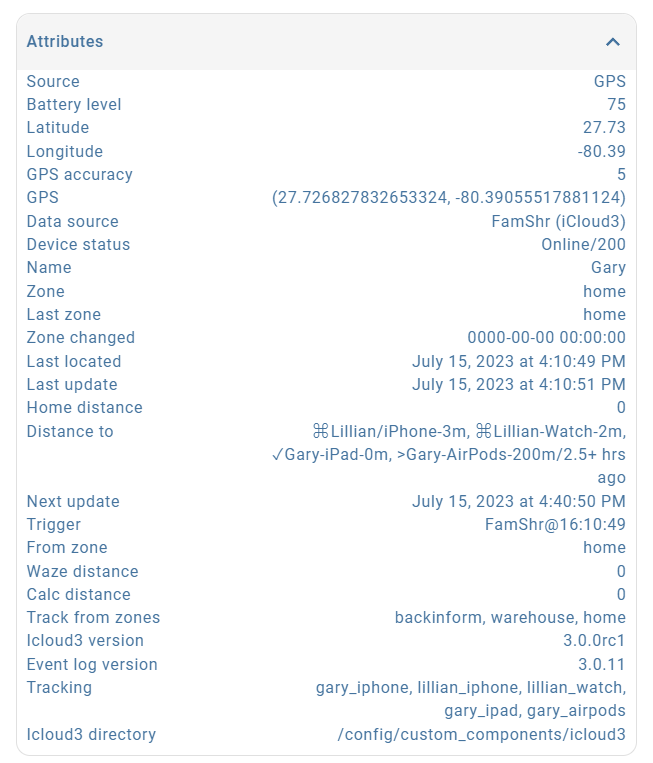
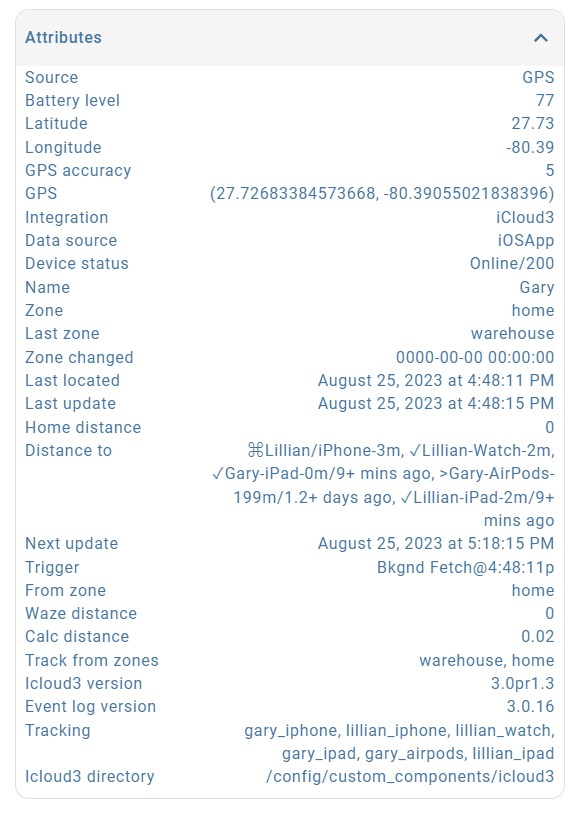
iCloud3 v3, User Guide

diff --git a/docs/chapters/3.2-attributes.md b/docs/chapters/3.2-attributes.md
@@ -2,7 +2,9 @@
 
 Many attributes are updated when the device is polled for it's location, distance and the travel time from Home or another zone. They can be used in automations and scripts and displayed on Lovelace Cards.  Sensors are created also for many of the attributes and are discussed in further detail in the Sensors chapter.
 
-![attributes_gc](../images/attributes_gc.jpg)
+The following shows the attributes for the *device_tracker.gary_iphone* entity.
+
+![](../images/attrs_device_tracker_gary.png)
 
 ### Location and Polling Attributes
 
@@ -32,7 +34,7 @@ The battery level of the device reported by iCloud (Family Sharing tracking meth
 
 ###### battery_status 
 
-Charging or NotCharging. This returned from iCloud and is not always available.
+Charging or Not Charging. This returned from iCloud and is not always available.
 
 ###### device_status 
 
@@ -76,7 +78,7 @@ The 'straight line' distance that is calculated using the latitude and longitude
 
 The driving distance from the `base zone` returned by Waze based on the shortest route.  
 
-###### last_located 
+###### last_located
 
 The last time your iCloud account successfully located the device. Normally, this will be a few seconds after the update time, however, if you are in a dead zone or the GPS accuracy exceeds the threshold, the time will be older. In this case, a description of the issues is displayed in the `info` attribute field.  
 
@@ -125,3 +127,21 @@ The devices that are being tracked based on the *devices/device_name* configurat
 The version of iCloud3 you are running.  
 
 
+
+### Attributes for Various Sensors
+
+The following table shows screenshots of the attributes for various types of sensors that are updated by iCloud3.
+
+| Device Tracker Entity                       | Badge Sensor                       | Battery Sensor                       |
+| ---------------------------------- | ------------------------------------ | ----------------------------------------- |
+| ![](../images/attrs_device_tracker_300.png) | ![](../images/attrs_badge_300.png) | ![](../images/attrs_Battery_300.png) |
+
+
+| Arrival Time Sensor                       | Travel Time Sensors | Distance Sensors                      |
+| ---------------------------------- | ------------------------------------ | ----------------------------------------- |
+| ![](../images/attrs_arrival_time_300.png) | ![](../images/attrs_travel_time_300.png) | ![](../images/attrs_distance_300.png) |
+
+
+| Distance Moved Sensor                       | Interval Sensor                       | Located, Next Update & Last Update Sensors |
+| ---------------------------------- | ------------------------------------ | ----------------------------------------- |
+| ![](../images/attrs_dist_moved_300.png) | ![](../images/attrs_interval_300.png) | ![](../images/attrs_located_300.png) |
